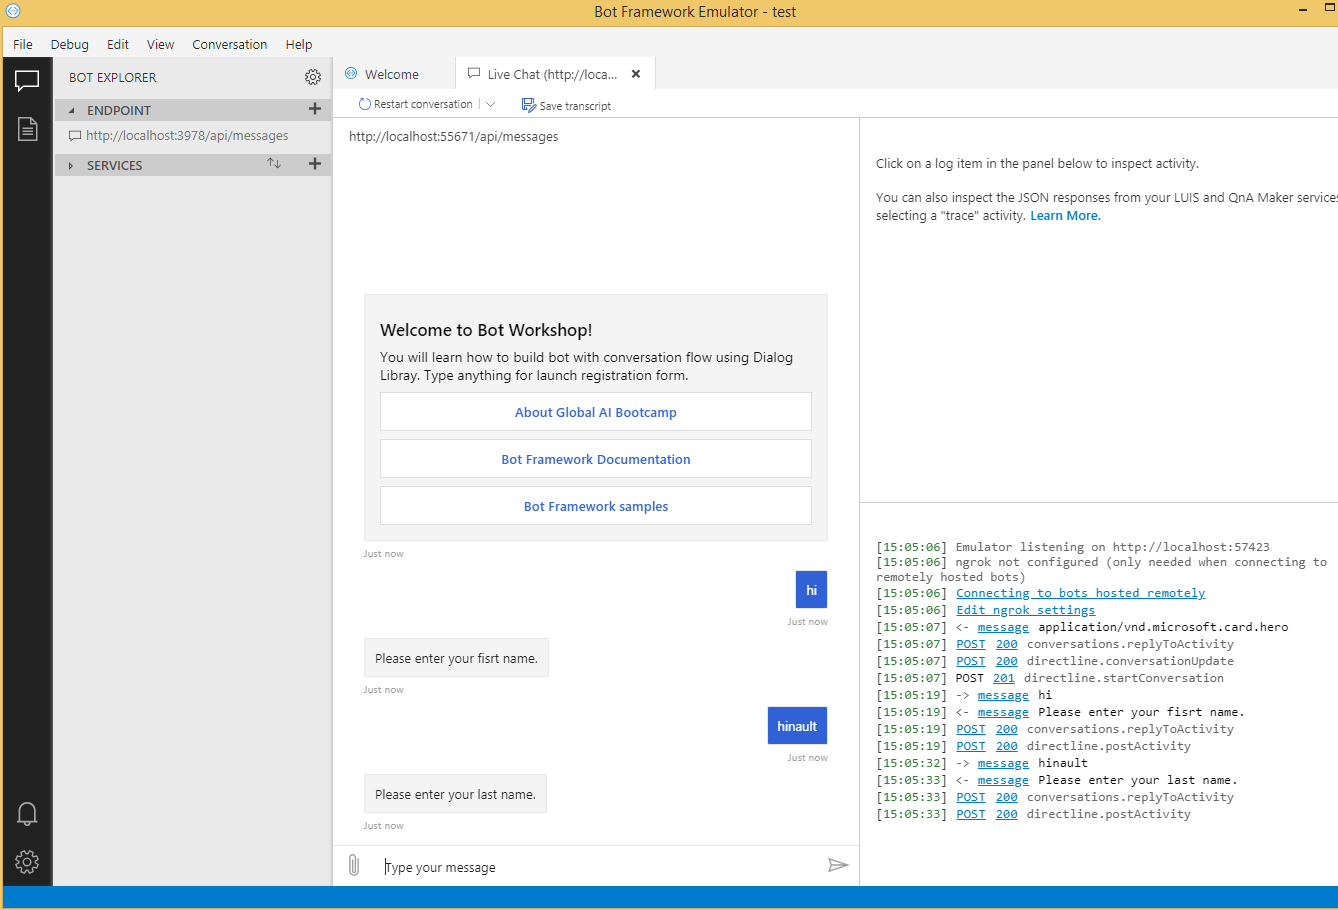
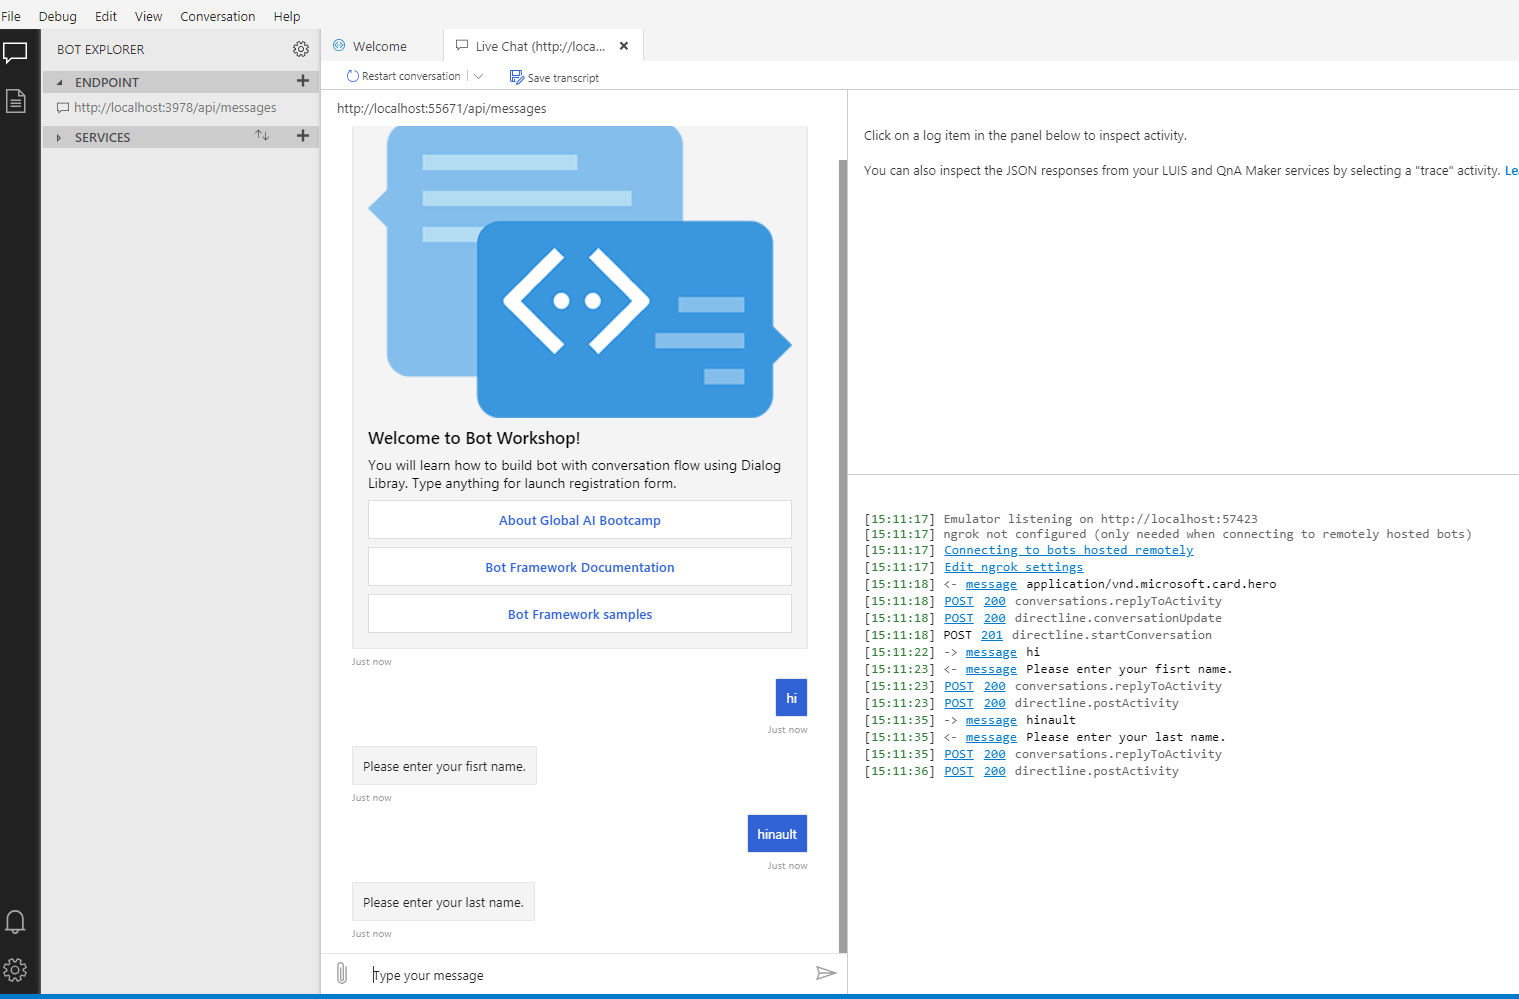
update readme

Changed region(s): [[0.0, 0.0, 1.0, 1.0], [0.6435, 0.2154, 0.8274, 0.2462], [0.9193, 0.2154, 1.0, 0.2462]]

diff --git a/src/ChatBot/Bots/DialogBot.cs b/src/ChatBot/Bots/DialogBot.cs
@@ -57,7 +57,7 @@ namespace ChatBot.Bots
                     var card = new HeroCard();
                     card.Title = "Welcome to Bot Workshop!";
                     card.Text = @"You will learn how to build bot with conversation flow using Dialog Libray. Type anything for launch registration form.";
-                    card.Images = new List<CardImage>() { new CardImage("https://github.com/hinault/Workshop-BotFramework/blob/master/media/ChatBot-BotFramework.png") };
+                    card.Images = new List<CardImage>() { new CardImage("https://raw.githubusercontent.com/hinault/Workshop-BotFramework/master/media/ChatBot-BotFramework.png") };
                     card.Buttons = new List<CardAction>()
                     {
                       new CardAction(ActionTypes.OpenUrl, "About Global AI Bootcamp", null, "About Global AI Bootcamp", "About Global AI Bootcamp", "https://globalai.community/global-ai-bootcamp/"),
